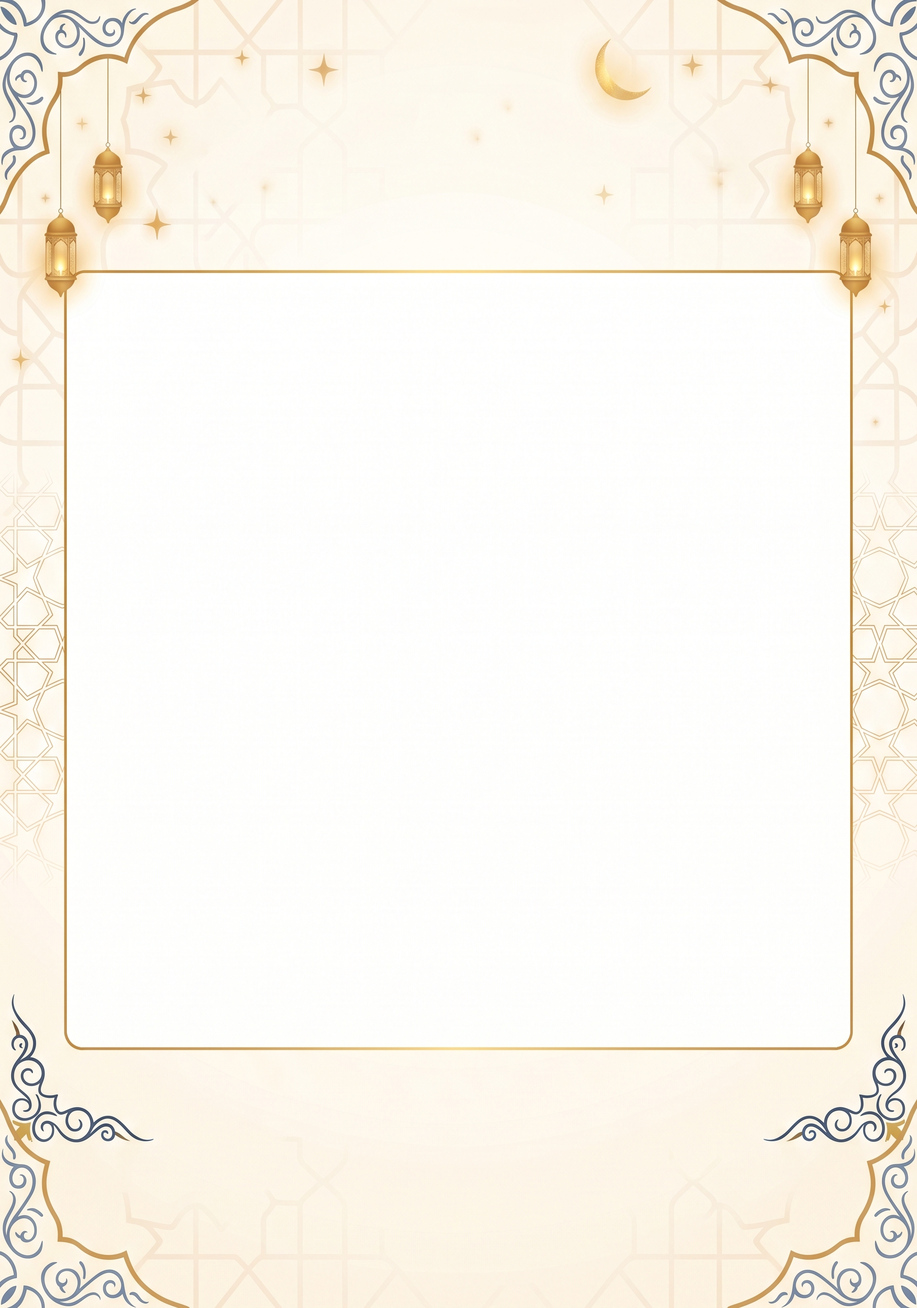
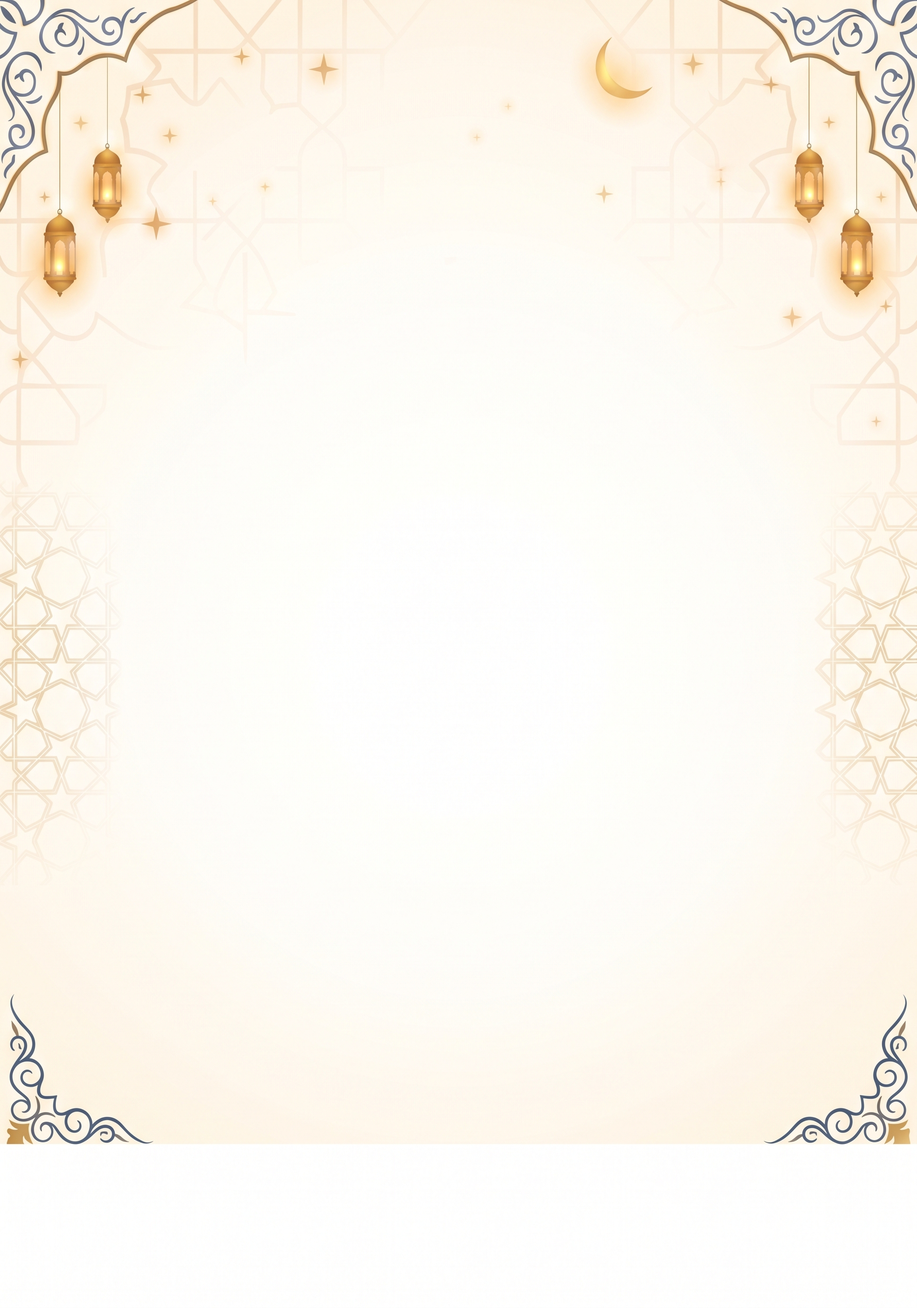
style: feuille Ramadan sur le nouveau fond (sans cadre, bande blanche pour l'identité), tableau agrandi

diff --git a/css/ramadan.css b/css/ramadan.css
@@ -66,8 +66,8 @@ body {
     width: 210mm;
     height: 297mm;
     display: grid;
-    /* zones calées sur l'image de fond : titre | cadre doré (61,4 → 237,8 mm) | invocation et identité */
-    grid-template-rows: 61.4mm 176.4mm 1fr;
+    /* zones calées sur l'image de fond : titre | tableau (56 → 241 mm) | invocation et identité (bande blanche dès 260 mm) */
+    grid-template-rows: 56mm 185mm 1fr;
     grid-template-columns: minmax(0, 1fr); /* le contenu ne peut pas élargir la page */
     position: relative;
     background: #fdf8ee url('../assets/img/ramadan-background.jpg') center / 100% 100% no-repeat;
@@ -82,7 +82,7 @@ body {
 
 /* --- PIED DE PAGE : identité de l'association (comme le header du calendrier annuel) --- */
 .ramadan-identity {
-    margin-top: 3mm;
+    align-self: center;
 }
 
 .identity-row {
@@ -179,7 +179,7 @@ body {
     display: flex;
     align-items: center;
     justify-content: center;
-    padding: 6mm 36mm 0;
+    padding: 22mm 36mm 0; /* sous le croissant, entre les lanternes de l'image */
 }
 
 .ramadan-main-title {
@@ -248,7 +248,7 @@ body {
 .ramadan-table-container {
     min-height: 0;
     display: flex;
-    padding: 2.5mm 17.5mm; /* à l'intérieur du cadre doré de l'image */
+    padding: 2mm 18.5mm; /* entre les lanternes et les ornements d'angle de l'image */
 }
 
 .ramadan-table {
@@ -297,7 +297,7 @@ body {
 .th-fr {
     display: block;
     text-transform: uppercase;
-    letter-spacing: -0.03em; /* colonnes plus étroites dans le cadre de l’image (« MAGHRIB ») */
+    letter-spacing: -0.05em; /* colonnes plus étroites dans le cadre de l’image (« MAGHRIB ») */
 }
 
 /* Arabe et tamoul de l'en-tête : même taille, même interligne, graisse normale */
@@ -483,7 +483,10 @@ sup.ordinal {
 
 /* --- PIED DE PAGE : invocation d'acceptation --- */
 .ramadan-footer {
-    padding: 2.5mm 20mm 0;
+    display: grid;
+    grid-template-rows: 19mm 1fr; /* invocation sur le fond crème | identité dans la bande blanche */
+    align-items: center;
+    padding: 0 20mm;
     text-align: center;
 }
 
